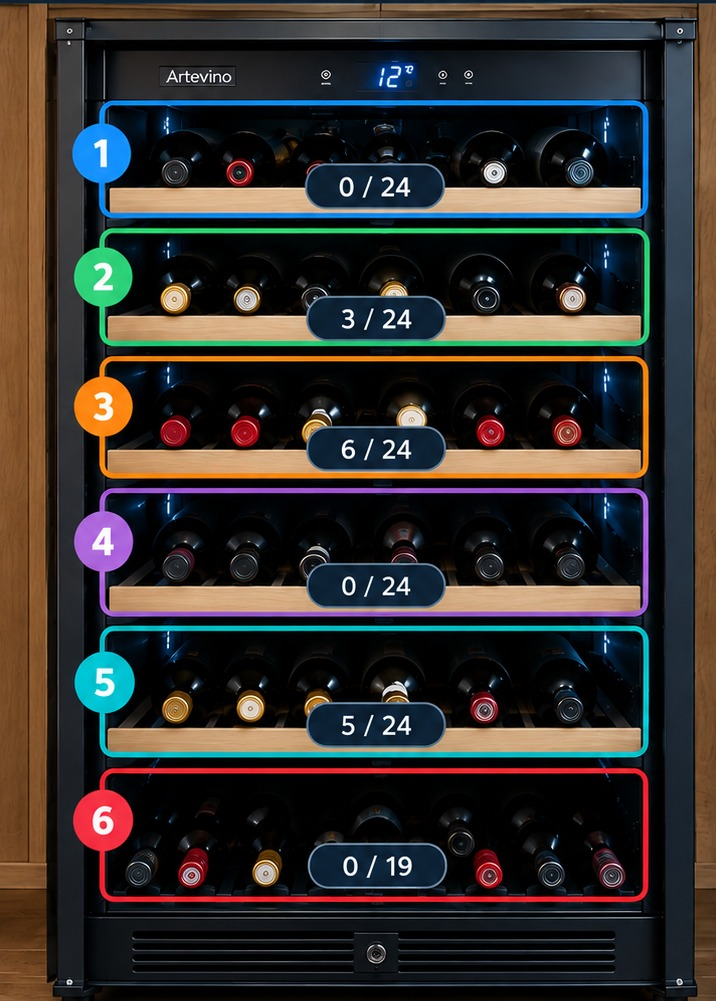
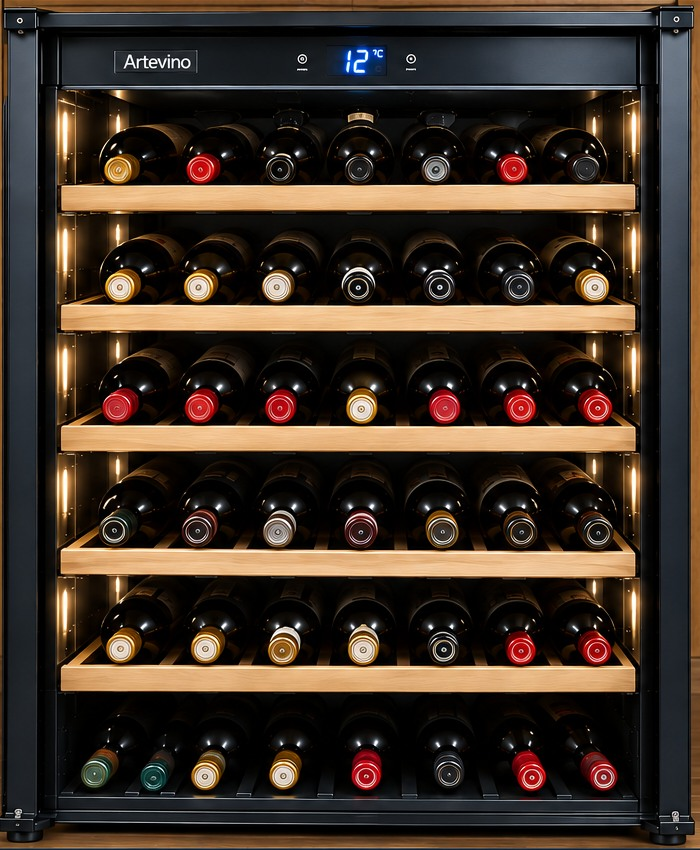
Add files via upload

diff --git a/index.html b/index.html
@@ -1,7 +1,7 @@
 <!doctype html>
 <html lang="fr"><head><meta charset="utf-8"><meta name="viewport" content="width=device-width,initial-scale=1,viewport-fit=cover"><meta name="theme-color" content="#202421"><link rel="manifest" href="manifest.json"><link rel="icon" href="icon.svg" type="image/svg+xml"><title>Ma cave à vin</title>
 <style>
-:root{font-family:system-ui,-apple-system,Segoe UI,sans-serif;color:#f7f3eb;background:#171a18;--panel:#252b27;--line:#454b45;--muted:#c7c9c3;--accent:#c9b18a}*{box-sizing:border-box}body{margin:0}header{padding:18px 16px;background:var(--panel);border-bottom:1px solid var(--line)}h1{margin:0;font-size:1.45rem}header p{margin:5px 0 0;color:var(--muted)}main{max-width:900px;margin:auto;padding:14px}.toolbar{display:flex;gap:8px;flex-wrap:wrap;margin:10px 0}.btn{border:0;border-radius:9px;padding:10px 13px;background:#d6c4a3;color:#211d16;font:inherit;font-weight:700;cursor:pointer}.secondary{background:#414a43;color:#fff}.danger{background:#713d36;color:white}.panel{background:var(--panel);border:1px solid var(--line);border-radius:13px;padding:14px;margin:12px 0}h2{font-size:1.12rem;margin:0 0 12px}.muted{color:var(--muted);font-size:.9rem}.cabinet-wrap{display:grid;grid-template-columns:minmax(180px,260px) 1fr;gap:16px;align-items:center}.cabinet{background:linear-gradient(90deg,#080a09,#303632 18%,#151816 85%,#050605);border:4px solid #555b56;border-radius:14px;padding:12px 9px;box-shadow:inset 0 0 12px #000,0 8px 22px #0007}.cabinet-title{text-align:center;font-size:.7rem;letter-spacing:.2em;color:#c9c9c2;margin-bottom:8px}.zone{display:flex;align-items:center;justify-content:center;gap:3px;position:relative;height:66px;border-bottom:5px solid #82755f;background:linear-gradient(#171b18,#252a26);cursor:pointer;padding:4px}.zone:last-child{border-bottom:0}.zone.active{outline:2px solid #e5d7bc;outline-offset:-3px;background:#363a34}.zone-label{position:absolute;top:3px;left:5px;font-size:.66rem;color:#e8e1d4;background:#171a18cc;padding:1px 4px;border-radius:4px}.bottle-shape{height:34px;width:9px;border-radius:3px 3px 2px 2px;background:linear-gradient(90deg,#263d2e,#5d7958,#1b2b22);position:relative;box-shadow:1px 1px 2px #0008}.bottle-shape:before{content:"";position:absolute;width:4px;height:8px;left:2.5px;top:-6px;background:#8d7655;border-radius:2px 2px 0 0}.zone:nth-child(3n) .bottle-shape{background:linear-gradient(90deg,#4a2020,#8d4540,#391818)}.zone:nth-child(4n) .bottle-shape{background:linear-gradient(90deg,#706342,#b8a36b,#554a2c)}.zone-list{display:grid;gap:8px}.zone-card{display:flex;align-items:center;justify-content:space-between;gap:8px;background:#1b201c;border:1px solid var(--line);border-radius:9px;padding:10px;color:#f7f3eb;text-align:left;cursor:pointer}.zone-card.active{border-color:#d6c4a3;box-shadow:0 0 0 1px #d6c4a3}.zone-card strong{display:block}.grid{display:grid;grid-template-columns:repeat(2,minmax(0,1fr));gap:10px}label{display:block;font-size:.88rem;color:#dedfd8;margin:10px 0 5px}input,select,textarea{width:100%;padding:10px;border-radius:8px;border:1px solid #656b64;background:#171a18;color:#fff;font:inherit}textarea{min-height:76px;resize:vertical}.bottle-card{padding:12px;border:1px solid var(--line);border-radius:9px;margin:9px 0;background:#1b201c}.bottle-card strong{display:block}.card-actions{display:flex;flex-wrap:wrap;gap:7px;margin-top:8px}.card-actions .btn{font-size:.87rem;padding:8px 10px}.add-choice{padding:6px 0 12px}.add-choice .grid{grid-template-columns:repeat(2,minmax(0,1fr))}.add-choice .btn{min-height:54px}.photo{max-width:150px;max-height:170px;object-fit:contain;border-radius:8px;display:inline-block;margin:8px 8px 0 0}.photo-preview-list{display:flex;flex-wrap:wrap;gap:8px}.photo-preview-list img{max-width:100px;max-height:120px;object-fit:contain;border-radius:8px;border:1px solid var(--line)}.row{display:flex;justify-content:space-between;align-items:center;gap:8px}.badge{font-size:.78rem;background:#414a43;border-radius:99px;padding:4px 8px}.hidden{display:none!important}.status{margin-top:8px;color:#d6c4a3;font-size:.9rem}.footer{font-size:.8rem;color:#aeb4ac;padding:8px 2px}@media(max-width:600px){main{padding:9px}.cabinet-wrap{grid-template-columns:1fr}.cabinet{max-width:280px;width:100%;margin:auto}.zone{height:58px}.grid{grid-template-columns:1fr}.toolbar .btn{flex:1}.panel{padding:12px}}
+:root{font-family:system-ui,-apple-system,Segoe UI,sans-serif;color:#f7f3eb;background:#171a18;--panel:#252b27;--line:#454b45;--muted:#c7c9c3;--accent:#c9b18a}*{box-sizing:border-box}body{margin:0}header{padding:18px 16px;background:var(--panel);border-bottom:1px solid var(--line)}h1{margin:0;font-size:1.45rem}header p{margin:5px 0 0;color:var(--muted)}main{max-width:900px;margin:auto;padding:14px}.toolbar{display:flex;gap:8px;flex-wrap:wrap;margin:10px 0}.btn{border:0;border-radius:9px;padding:10px 13px;background:#d6c4a3;color:#211d16;font:inherit;font-weight:700;cursor:pointer}.secondary{background:#414a43;color:#fff}.danger{background:#713d36;color:white}.panel{background:var(--panel);border:1px solid var(--line);border-radius:13px;padding:14px;margin:12px 0}h2{font-size:1.12rem;margin:0 0 12px}.muted{color:var(--muted);font-size:.9rem}.cabinet-wrap{display:grid;grid-template-columns:minmax(180px,260px) 1fr;gap:16px;align-items:center}.cabinet{background:linear-gradient(90deg,#080a09,#303632 18%,#151816 85%,#050605);border:4px solid #555b56;border-radius:14px;padding:12px 9px;box-shadow:inset 0 0 12px #000,0 8px 22px #0007}.cabinet-title{text-align:center;font-size:.7rem;letter-spacing:.2em;color:#c9c9c2;margin-bottom:8px}.zone{display:flex;align-items:center;justify-content:center;gap:3px;position:relative;height:66px;border-bottom:5px solid #82755f;background:linear-gradient(#171b18,#252a26);cursor:pointer;padding:4px}.zone:last-child{border-bottom:0}.zone.active{outline:2px solid #e5d7bc;outline-offset:-3px;background:#363a34}.zone-label{position:absolute;top:3px;left:5px;font-size:.66rem;color:#e8e1d4;background:#171a18cc;padding:1px 4px;border-radius:4px}.bottle-shape{height:34px;width:9px;border-radius:3px 3px 2px 2px;background:linear-gradient(90deg,#263d2e,#5d7958,#1b2b22);position:relative;box-shadow:1px 1px 2px #0008}.bottle-shape:before{content:"";position:absolute;width:4px;height:8px;left:2.5px;top:-6px;background:#8d7655;border-radius:2px 2px 0 0}.zone:nth-child(3n) .bottle-shape{background:linear-gradient(90deg,#4a2020,#8d4540,#391818)}.zone:nth-child(4n) .bottle-shape{background:linear-gradient(90deg,#706342,#b8a36b,#554a2c)}.zone-list{display:grid;gap:8px}.zone-card{display:flex;align-items:center;justify-content:space-between;gap:8px;background:#1b201c;border:1px solid var(--line);border-radius:9px;padding:10px;color:#f7f3eb;text-align:left;cursor:pointer}.zone-card.active{border-color:#d6c4a3;box-shadow:0 0 0 1px #d6c4a3}.zone-card strong{display:block}.grid{display:grid;grid-template-columns:repeat(2,minmax(0,1fr));gap:10px}label{display:block;font-size:.88rem;color:#dedfd8;margin:10px 0 5px}input,select,textarea{width:100%;padding:10px;border-radius:8px;border:1px solid #656b64;background:#171a18;color:#fff;font:inherit}textarea{min-height:76px;resize:vertical}.bottle-card{padding:12px;border:1px solid var(--line);border-radius:9px;margin:9px 0;background:#1b201c}.bottle-card strong{display:block}.card-actions{display:flex;flex-wrap:wrap;gap:7px;margin-top:8px}.card-actions .btn{font-size:.87rem;padding:8px 10px}.add-choice{padding:6px 0 12px}.add-choice .grid{grid-template-columns:repeat(2,minmax(0,1fr))}.add-choice .btn{min-height:54px}.photo{max-width:150px;max-height:170px;object-fit:contain;border-radius:0;display:inline-block;margin:8px 8px 0 0}.photo-preview-list{display:flex;flex-wrap:wrap;gap:8px}.photo-preview-list img{max-width:100px;max-height:120px;object-fit:contain;border-radius:0;border:1px solid var(--line)}.row{display:flex;justify-content:space-between;align-items:center;gap:8px}.badge{font-size:.78rem;background:#414a43;border-radius:99px;padding:4px 8px}.hidden{display:none!important}.status{margin-top:8px;color:#d6c4a3;font-size:.9rem}.footer{font-size:.8rem;color:#aeb4ac;padding:8px 2px}@media(max-width:600px){main{padding:9px}.cabinet-wrap{grid-template-columns:1fr}.cabinet{max-width:280px;width:100%;margin:auto}.zone{height:58px}.grid{grid-template-columns:1fr}.toolbar .btn{flex:1}.panel{padding:12px}}
 
 /* Correctif interface : photo réelle, zones tactiles sans cadres colorés */
 .cabinet-wrap{display:block}
@@ -13,14 +13,14 @@
 .hotspot{display:flex;align-items:center;justify-content:center;padding:0;color:#fff;text-align:center}
 .hotspot-count{display:inline-block;background:rgba(20,22,20,.86);color:#fff;border:1px solid rgba(238,225,202,.75);border-radius:7px;padding:3px 9px;font-size:clamp(.72rem,2.5vw,.9rem);font-weight:700;line-height:1.2;box-shadow:0 1px 5px #0008;pointer-events:none}
 
-.hotspot[data-zone="1"]{top:17%}.hotspot[data-zone="2"]{top:33%}.hotspot[data-zone="3"]{top:49%}.hotspot[data-zone="4"]{top:65%}.hotspot[data-zone="5"]{top:81%}.hotspot[data-zone="6"]{top:91%}
+.hotspot[data-zone="1"]{top:20%}.hotspot[data-zone="2"]{top:34%}.hotspot[data-zone="3"]{top:48%}.hotspot[data-zone="4"]{top:62%}.hotspot[data-zone="5"]{top:76%}.hotspot[data-zone="6"]{top:89%}
 #zoneList{display:none!important}
 #inventoryPanel,#formPanel,#capacityPanel,#backupPanel{display:none}
 #inventoryPanel.open,#formPanel.open,#capacityPanel.open,#backupPanel.open{display:block}
 #cavePanel.hidden{display:none}
 .detail-toolbar{display:flex;gap:8px;flex-wrap:wrap;margin:10px 0}
 header{position:sticky;top:0;z-index:5}
-@media(max-width:600px){.cave-photo-wrap{width:100%;max-width:390px}.hotspot{left:12%;width:80%;height:13%}.hotspot[data-zone="1"]{top:17%}.hotspot[data-zone="2"]{top:33%}.hotspot[data-zone="3"]{top:49%}.hotspot[data-zone="4"]{top:65%}.hotspot[data-zone="5"]{top:81%}.hotspot[data-zone="6"]{top:91%}}
+@media(max-width:600px){.cave-photo-wrap{width:100%;max-width:390px}.hotspot{left:12%;width:80%;height:11%}.hotspot[data-zone="1"]{top:20%}.hotspot[data-zone="2"]{top:34%}.hotspot[data-zone="3"]{top:48%}.hotspot[data-zone="4"]{top:62%}.hotspot[data-zone="5"]{top:76%}.hotspot[data-zone="6"]{top:89%}}
 </style></head><body>
 <header><h1>🍷 Ma cave à vin</h1><p>Ton inventaire, compartiment par compartiment</p></header><main>
 <section class="panel" id="cavePanel"><div class="row"><h2>Ma cave</h2></div><p class="muted" id="totalCapacity" style="margin:0 0 10px;text-align:center">Bouteilles : 0 / Capacité 120</p>
@@ -36,11 +36,11 @@ header{position:sticky;top:0;z-index:5}
 <p class="muted" style="text-align:center">Appuie sur une clayette pour ouvrir son compartiment. Le compartiment 6 se trouve au fond, sous la dernière clayette.</p>
 <div class="toolbar"><button class="btn secondary" id="capacityBtn">Capacité</button><button class="btn" id="waitingBtn">🍷 Bouteilles en attente <span id="waitingCount"></span></button><button class="btn secondary" id="backupBtn">Sauvegarde et restauration</button></div></section>
 <section class="panel" id="inventoryPanel"><div class="row"><h2 id="sectionTitle">Compartiment 1</h2><span class="muted" id="sectionCount"></span></div><div class="detail-toolbar"><button class="btn secondary" id="backToCave">← Retour à ma cave</button><button class="btn" id="addWineBtn">＋ Ajouter un vin</button></div><div id="inventory"></div></section>
-<section class="panel" id="formPanel"><h2 id="formTitle">Ajouter un vin</h2><div id="addChoice" class="add-choice"><p class="muted">Comment souhaites-tu ajouter ce vin ?</p><div class="grid"><button class="btn" type="button" id="takePhotoBtn">📷 Prendre une photo</button><button class="btn secondary" type="button" id="manualAddBtn">✍ Ajouter manuellement</button></div><input id="quickPhoto" class="hidden" type="file" accept="image/*" capture="environment"></div><p class="muted" id="formHint">Les champs avec * sont obligatoires. Les bouteilles en attente n'ont aucune limite de capacité.</p><form id="wineForm" class="hidden"><input type="hidden" id="editId"><div class="grid"><div><label for="name">Nom du vin *</label><input id="name" required maxlength="160"></div><div><label for="producer">Domaine / producteur</label><input id="producer"></div><div><label for="appellation">Appellation</label><input id="appellation"></div><div><label for="year">Millésime</label><input id="year" type="number" min="1900" max="2100" inputmode="numeric"></div><div><label for="color">Couleur</label><select id="color"><option>Rouge</option><option>Blanc</option><option>Rosé</option><option>Effervescent</option><option>Autre</option></select></div><div><label for="grapes">Cépages</label><input id="grapes" placeholder="Ex. Merlot, Cabernet Sauvignon"></div><div><label for="qty">Quantité *</label><input id="qty" type="number" min="1" value="1" required></div><div><label for="price">Prix par bouteille (€)</label><input id="price" type="number" min="0" step="0.01"></div><div><label for="drinkFrom">À boire à partir de</label><input id="drinkFrom" type="date"></div><div><label for="drink">À boire idéalement jusqu'au</label><input id="drink" type="date"></div><div><label for="temp">Température de dégustation (°C)</label><input id="temp" type="number" min="0" max="30" step="0.5"></div><div><label for="photo">Photos de la bouteille (face avant, contre-étiquette au dos, capsule…)</label><input id="photo" type="file" accept="image/*" multiple><p class="muted">Tu peux sélectionner plusieurs photos ou en ajouter d’autres lors de la modification. Pour lire les informations, photographie aussi la contre-étiquette.</p><div class="toolbar"><button class="btn secondary" type="button" id="addCameraPhoto">📷 Ajouter une photo (dos, capsule…)</button><button class="btn secondary" type="button" id="scanPhotos">🔎 Lire les informations des photos</button></div><input type="file" accept="image/*" capture="environment" id="extraCameraPhoto" class="hidden"><div id="ocrStatus" class="status" aria-live="polite"></div><div id="photoPreviewList" class="photo-preview-list"></div></div></div><label for="description">Description du vin</label><textarea id="description" placeholder="Cépages, terroir, arômes, élevage, conseils du producteur…"></textarea><label for="pairings">Accords mets et vins</label><textarea id="pairings" placeholder="Ex. agneau rôti, fromages affinés…"></textarea><label for="notes">Notes personnelles</label><textarea id="notes" placeholder="Où acheté, occasion, avis de dégustation…"></textarea><div class="toolbar"><button class="btn" type="submit" id="submitWine">Enregistrer le vin</button><button class="btn secondary hidden" type="button" id="cancelEdit">Annuler</button></div><div class="status" id="formStatus" aria-live="polite"></div></form></section>
+<section class="panel" id="formPanel"><h2 id="formTitle">Ajouter un vin</h2><div id="addChoice" class="add-choice"><p class="muted">Comment souhaites-tu ajouter ce vin ?</p><div class="grid"><button class="btn" type="button" id="takePhotoBtn">📷 Prendre une photo</button><button class="btn secondary" type="button" id="manualAddBtn">✍ Ajouter manuellement</button></div><input id="quickPhoto" class="hidden" type="file" accept="image/*" capture="environment"></div><p class="muted" id="formHint">Les champs avec * sont obligatoires. Les bouteilles en attente n'ont aucune limite de capacité.</p><form id="wineForm" class="hidden"><input type="hidden" id="editId"><div class="grid"><div><label for="name">Nom du vin *</label><input id="name" required maxlength="160"></div><div><label for="producer">Domaine / producteur</label><input id="producer"></div><div><label for="appellation">Appellation</label><input id="appellation"></div><div><label for="year">Millésime</label><input id="year" type="number" min="1900" max="2100" inputmode="numeric"></div><div><label for="color">Couleur</label><select id="color"><option>Rouge</option><option>Blanc</option><option>Rosé</option><option>Effervescent</option><option>Autre</option></select></div><div><label for="grapes">Cépages</label><input id="grapes" placeholder="Ex. Merlot, Cabernet Sauvignon"></div><div><label for="qty">Quantité *</label><input id="qty" type="number" min="1" value="1" required></div><div><label for="price">Prix par bouteille (€)</label><input id="price" type="number" min="0" step="0.01"></div><div><label for="alcohol">Degré d’alcool (% vol.)</label><input id="alcohol" type="number" min="0" max="30" step="0.1" inputmode="decimal" placeholder="Ex. 13,5"></div><div><label for="drinkFrom">À boire à partir de</label><input id="drinkFrom" type="date"></div><div><label for="temp">Température de dégustation (°C)</label><input id="temp" type="number" min="0" max="30" step="0.5"></div><div><label for="photo">Photos de la bouteille (face avant, contre-étiquette au dos, capsule…)</label><input id="photo" type="file" accept="image/*" multiple><p class="muted">Tu peux sélectionner plusieurs photos ou en ajouter d’autres lors de la modification. Pour lire les informations, photographie aussi la contre-étiquette.</p><div class="toolbar"><button class="btn secondary" type="button" id="addCameraPhoto">📷 Ajouter une photo (dos, capsule…)</button><button class="btn secondary" type="button" id="scanPhotos">🔎 Lire les informations des photos</button></div><input type="file" accept="image/*" capture="environment" id="extraCameraPhoto" class="hidden"><div id="ocrStatus" class="status" aria-live="polite"></div><div id="photoPreviewList" class="photo-preview-list"></div></div></div><label for="description">Description du vin</label><textarea id="description" placeholder="Cépages, terroir, arômes, élevage, conseils du producteur…"></textarea><label for="pairings">Accords mets et vins</label><textarea id="pairings" placeholder="Ex. agneau rôti, fromages affinés…"></textarea><label for="notes">Notes personnelles</label><textarea id="notes" placeholder="Où acheté, occasion, avis de dégustation…"></textarea><div class="toolbar"><button class="btn" type="submit" id="submitWine">Enregistrer le vin</button><button class="btn secondary hidden" type="button" id="cancelEdit">Annuler</button></div><div class="status" id="formStatus" aria-live="polite"></div></form></section>
 <section class="panel hidden" id="capacityPanel"><h2>Capacité des compartiments</h2><p class="muted">Chaque compartiment physique possède une capacité fixe que tu peux ajuster ici. Les bouteilles en attente sont illimitées.</p><div class="grid" id="capacityFields"></div><button class="btn" id="saveCapacities">Enregistrer les capacités</button><button class="btn secondary" id="closeCapacity">Fermer</button></section>
-<section class="panel" id="backupPanel"><div class="row"><h2>Sauvegarde et restauration</h2><button class="btn secondary" id="closeBackup">Fermer</button></div><p class="muted">Les données et photos restent dans le stockage de ce navigateur. Exporte régulièrement une sauvegarde JSON, notamment avant de changer d'appareil. Évite d'effacer les données du navigateur.</p><div class="toolbar"><button class="btn secondary" id="export">Exporter ma cave</button><label class="btn secondary" for="importFile" style="display:inline-block;margin:0;cursor:pointer">Importer une sauvegarde</label><input class="hidden" id="importFile" type="file" accept="application/json"></div><div id="backupStatus" class="status"></div></section><p class="footer">Version 1.1.2 — Cinq clayettes et rangement au fond — Six compartiments — Plusieurs photos par vin — Les données sont locales à ce navigateur et ne sont pas synchronisées entre appareils.</p></main>
+<section class="panel" id="backupPanel"><div class="row"><h2>Sauvegarde et restauration</h2><button class="btn secondary" id="closeBackup">Fermer</button></div><p class="muted">Les données et photos restent dans le stockage de ce navigateur. Exporte régulièrement une sauvegarde JSON, notamment avant de changer d'appareil. Évite d'effacer les données du navigateur.</p><div class="toolbar"><button class="btn secondary" id="export">Exporter ma cave</button><label class="btn secondary" for="importFile" style="display:inline-block;margin:0;cursor:pointer">Importer une sauvegarde</label><input class="hidden" id="importFile" type="file" accept="application/json"></div><div id="backupStatus" class="status"></div></section><p class="footer">Version 1.1.5 — Cinq clayettes et rangement au fond — Six compartiments — Plusieurs photos par vin — Les données sont locales à ce navigateur et ne sont pas synchronisées entre appareils.</p></main>
 <script>
-const KEY='maCaveVin_v1';const $=id=>document.getElementById(id);const defaultState={selected:1,view:'home',formOpen:false,capacities:{1:24,2:24,3:24,4:24,5:24,6:24},wines:[]};let state;try{state=JSON.parse(localStorage.getItem(KEY)||'null')||defaultState}catch{state=defaultState}state.view='home';state.formOpen=false;state.capacities={...{1:24,2:24,3:24,4:24,5:24,6:24},...(state.capacities||{})};state.wines=(state.wines||[]).map(w=>({...w,compartment:w.compartment===0||w.compartment==='waiting'?'waiting':Number(w.compartment||1),description:w.description||'',grapes:w.grapes||'',pairings:w.pairings||'',drinkFrom:w.drinkFrom||''}));let currentPhotos=[];function save(){localStorage.setItem(KEY,JSON.stringify(state))}function countAt(c){return state.wines.filter(w=>w.compartment===c).reduce((s,w)=>s+Number(w.qty||0),0)}function waitingCount(){return countAt('waiting')}function esc(s=''){return String(s).replace(/[&<>"']/g,c=>({'&':'&amp;','<':'&lt;','>':'&gt;','"':'&quot;',"'":'&#39;'}[c]))}function priceText(w){return w.price!==''&&w.price!=null?Number(w.price).toLocaleString('fr-FR',{style:'currency',currency:'EUR'}):''}
+const KEY='maCaveVin_v1';const $=id=>document.getElementById(id);const defaultState={selected:1,view:'home',formOpen:false,capacities:{1:24,2:24,3:24,4:24,5:24,6:24},wines:[]};let state;try{state=JSON.parse(localStorage.getItem(KEY)||'null')||defaultState}catch{state=defaultState}state.view='home';state.formOpen=false;state.capacities={...{1:24,2:24,3:24,4:24,5:24,6:24},...(state.capacities||{})};state.wines=(state.wines||[]).map(w=>({...w,compartment:w.compartment===0||w.compartment==='waiting'?'waiting':Number(w.compartment||1),description:w.description||'',grapes:w.grapes||'',pairings:w.pairings||'',drinkFrom:w.drinkFrom||'',alcohol:w.alcohol??''}));let currentPhotos=[];function save(){localStorage.setItem(KEY,JSON.stringify(state))}function countAt(c){return state.wines.filter(w=>w.compartment===c).reduce((s,w)=>s+Number(w.qty||0),0)}function waitingCount(){return countAt('waiting')}function esc(s=''){return String(s).replace(/[&<>"']/g,c=>({'&':'&amp;','<':'&lt;','>':'&gt;','"':'&quot;',"'":'&#39;'}[c]))}function priceText(w){return w.price!==''&&w.price!=null?Number(w.price).toLocaleString('fr-FR',{style:'currency',currency:'EUR'}):''}
 function selectComp(n){state.selected=n;state.view='compartment';save();resetForm();render();$('inventoryPanel').scrollIntoView({behavior:'smooth',block:'start'})}function showWaiting(){state.view='waiting';save();resetForm();render();$('inventoryPanel').scrollIntoView({behavior:'smooth',block:'start'})}
 function renderCabinet(){
   [1,2,3,4,5,6].forEach(n=>{const b=document.querySelector(`.hotspot[data-zone="${n}"]`);if(b){b.setAttribute('aria-label',`Ouvrir le compartiment ${n}, ${countAt(n)} / ${state.capacities[n]||24} bouteilles`);const label=b.querySelector('.hotspot-count');if(label)label.textContent=`${countAt(n)} / ${state.capacities[n]||24}`;}});
@@ -50,7 +50,7 @@ function renderCabinet(){
   $('totalCapacity').textContent=`Bouteilles : ${storedBottles} / Capacité ${totalCapacity}`;
   document.querySelectorAll('[data-zone]').forEach(b=>b.onclick=()=>selectComp(Number(b.dataset.zone)));
 }
-function renderInventory(){let isWait=state.view==='waiting';$('sectionTitle').textContent=isWait?'Bouteilles en attente':`Compartiment ${state.selected}`;$('sectionCount').textContent=isWait?`${waitingCount()} bouteille(s) · capacité illimitée`:`${countAt(state.selected)} / ${state.capacities[state.selected]||24} bouteille(s)`;let wines=state.wines.filter(w=>isWait?w.compartment==='waiting':w.compartment===state.selected);$('inventory').innerHTML=wines.length?wines.map(w=>`<article class="bottle-card"><div class="row"><strong>${esc(w.name)} ${w.year?`(${esc(w.year)})`:''}</strong><span class="badge">${Number(w.qty)} ×</span></div><div class="muted">${esc([w.producer,w.appellation,w.color,w.grapes].filter(Boolean).join(' · '))}</div><div class="muted">${[priceText(w),w.drinkFrom?'À boire dès '+esc(w.drinkFrom):'',w.drink?'Jusqu’au '+esc(w.drink):'',w.temp?`Service ${esc(w.temp)} °C`:'' ].filter(Boolean).join(' · ')}</div>${w.description?`<p><strong>Description</strong><br>${esc(w.description).replace(/\n/g,'<br>')}</p>`:''}${w.pairings?`<p><strong>Accords mets et vins</strong><br>${esc(w.pairings).replace(/\n/g,'<br>')}</p>`:''}${w.notes?`<p><strong>Notes</strong><br>${esc(w.notes).replace(/\n/g,'<br>')}</p>`:''}${(w.photos&&w.photos.length?w.photos:(w.photo?[w.photo]:[])).map((ph,i)=>`<img class="photo" src="${ph}" alt="Photo ${i+1} de ${esc(w.name)}">`).join('')}<div class="card-actions"><button class="btn secondary" data-edit="${esc(w.id)}">Modifier</button><button class="btn secondary" data-move="${esc(w.id)}">Transférer</button><button class="btn secondary" data-qty="${esc(w.id)}">Ajuster quantité</button><button class="btn danger" data-delete="${esc(w.id)}">Supprimer</button></div></article>`).join(''):'<p class="muted">'+(isWait?'Aucune bouteille en attente. Tu peux ajouter ici les vins qui ne sont pas encore rangés dans la cave.':'Aucune bouteille dans ce compartiment pour le moment.')+'</p>';document.querySelectorAll('[data-edit]').forEach(b=>b.onclick=()=>editWine(b.dataset.edit));document.querySelectorAll('[data-move]').forEach(b=>b.onclick=()=>moveWine(b.dataset.move));document.querySelectorAll('[data-qty]').forEach(b=>b.onclick=()=>adjustQty(b.dataset.qty));document.querySelectorAll('[data-delete]').forEach(b=>b.onclick=()=>deleteWine(b.dataset.delete));}
+function renderInventory(){let isWait=state.view==='waiting';$('sectionTitle').textContent=isWait?'Bouteilles en attente':`Compartiment ${state.selected}`;$('sectionCount').textContent=isWait?`${waitingCount()} bouteille(s) · capacité illimitée`:`${countAt(state.selected)} / ${state.capacities[state.selected]||24} bouteille(s)`;let wines=state.wines.filter(w=>isWait?w.compartment==='waiting':w.compartment===state.selected);$('inventory').innerHTML=wines.length?wines.map(w=>`<article class="bottle-card"><div class="row"><strong>${esc(w.name)} ${w.year?`(${esc(w.year)})`:''}</strong><span class="badge">${Number(w.qty)} ×</span></div><div class="muted">${esc([w.producer,w.appellation,w.color,w.grapes].filter(Boolean).join(' · '))}</div><div class="muted">${[priceText(w),w.drinkFrom?'À boire dès '+esc(w.drinkFrom):'',w.temp?`Service ${esc(w.temp)} °C`:'',w.alcohol!==''&&w.alcohol!=null?`Alcool ${esc(w.alcohol)} % vol.`:'' ].filter(Boolean).join(' · ')}</div>${w.description?`<p><strong>Description</strong><br>${esc(w.description).replace(/\n/g,'<br>')}</p>`:''}${w.pairings?`<p><strong>Accords mets et vins</strong><br>${esc(w.pairings).replace(/\n/g,'<br>')}</p>`:''}${w.notes?`<p><strong>Notes</strong><br>${esc(w.notes).replace(/\n/g,'<br>')}</p>`:''}${(w.photos&&w.photos.length?w.photos:(w.photo?[w.photo]:[])).map((ph,i)=>`<img class="photo" src="${ph}" alt="Photo ${i+1} de ${esc(w.name)}">`).join('')}<div class="card-actions"><button class="btn secondary" data-edit="${esc(w.id)}">Modifier</button><button class="btn secondary" data-move="${esc(w.id)}">Transférer</button><button class="btn secondary" data-qty="${esc(w.id)}">Ajuster quantité</button><button class="btn danger" data-delete="${esc(w.id)}">Supprimer</button></div></article>`).join(''):'<p class="muted">'+(isWait?'Aucune bouteille en attente. Tu peux ajouter ici les vins qui ne sont pas encore rangés dans la cave.':'Aucune bouteille dans ce compartiment pour le moment.')+'</p>';document.querySelectorAll('[data-edit]').forEach(b=>b.onclick=()=>editWine(b.dataset.edit));document.querySelectorAll('[data-move]').forEach(b=>b.onclick=()=>moveWine(b.dataset.move));document.querySelectorAll('[data-qty]').forEach(b=>b.onclick=()=>adjustQty(b.dataset.qty));document.querySelectorAll('[data-delete]').forEach(b=>b.onclick=()=>deleteWine(b.dataset.delete));}
 function render(){
  renderCabinet();renderInventory();
  const home=state.view==='home';
@@ -72,14 +72,14 @@ $('photo').addEventListener('change',async()=>{const files=Array.from($('photo')
 let ocrLoader;
 function loadOcr(){if(window.Tesseract)return Promise.resolve();if(!ocrLoader)ocrLoader=new Promise((resolve,reject)=>{const sc=document.createElement('script');sc.src='https://cdn.jsdelivr.net/npm/tesseract.js@5.1.1/dist/tesseract.min.js';sc.onload=resolve;sc.onerror=()=>reject(new Error('Connexion Internet nécessaire pour télécharger le lecteur OCR.'));document.head.appendChild(sc)});return ocrLoader}
 function fillIfEmpty(id,value){if(value&&!$(id).value.trim())$(id).value=value.trim()}
-function parseWineText(raw){const lines=raw.split(/\n/).map(x=>x.trim()).filter(Boolean);const t=lines.join('\n');const year=t.match(/\b(19[5-9]\d|20[0-3]\d)\b/);if(year)fillIfEmpty('year',year[1]);const grapes=['Merlot','Cabernet Sauvignon','Cabernet Franc','Pinot Noir','Syrah','Grenache','Mourvèdre','Malbec','Chardonnay','Sauvignon Blanc','Sémillon','Chenin','Viognier','Riesling','Gewurztraminer','Gamay','Carignan','Cinsault','Petit Verdot','Marsanne','Roussanne','Muscat'];const found=grapes.filter(g=>new RegExp(g.replace(/ /g,'\\s+'),'i').test(t));if(found.length)fillIfEmpty('grapes',found.join(', '));const appell=t.match(/(?:appellation\s+)([^\n]{3,75}?)(?:\s+contr[oô]l[eé]e|\s+prot[eé]g[eé]e|\s+A\.?O\.?P\.?|\s+A\.?O\.?C\.?|$)/im);if(appell)fillIfEmpty('appellation',appell[1]);const domain=t.match(/(?:domaine|ch[aâ]teau|maison|clos)\s+[^\n]{2,65}/i);if(domain)fillIfEmpty('producer',domain[0]);const title=lines.find(l=>l.length>3&&l.length<65&&!/^(mis en|contient|produit|bouteille|vin de|appellation|alc\.|volume|75\s*cl|www\.|import|sulfites|france|terroir|cépages)/i.test(l)&&!/\d{2,}/.test(l));if(title)fillIfEmpty('name',title);const old=$('description').value.trim();const block='Texte lu sur les étiquettes (à vérifier) :\n'+t.slice(0,2400);$('description').value=old?old+'\n\n'+block:block;}
+function parseWineText(raw){const lines=raw.split(/\n/).map(x=>x.trim()).filter(Boolean);const t=lines.join('\n');const abv=t.match(/(?:\b(?:alc(?:ool)?\.?|vol\.?|alcool\s+par\s+volume)\s*[:.]?\s*)(\d{1,2}(?:[.,]\d)?)\s*%|\b(\d{1,2}(?:[.,]\d)?)\s*%\s*(?:vol\.?|alc\.?)/i);if(abv){const degree=Number((abv[1]||abv[2]).replace(',','.'));if(degree>=0&&degree<=30)fillIfEmpty('alcohol',String(degree));}const year=t.match(/\b(19[5-9]\d|20[0-3]\d)\b/);if(year)fillIfEmpty('year',year[1]);const grapes=['Merlot','Cabernet Sauvignon','Cabernet Franc','Pinot Noir','Syrah','Grenache','Mourvèdre','Malbec','Chardonnay','Sauvignon Blanc','Sémillon','Chenin','Viognier','Riesling','Gewurztraminer','Gamay','Carignan','Cinsault','Petit Verdot','Marsanne','Roussanne','Muscat'];const found=grapes.filter(g=>new RegExp(g.replace(/ /g,'\\s+'),'i').test(t));if(found.length)fillIfEmpty('grapes',found.join(', '));const appell=t.match(/(?:appellation\s+)([^\n]{3,75}?)(?:\s+contr[oô]l[eé]e|\s+prot[eé]g[eé]e|\s+A\.?O\.?P\.?|\s+A\.?O\.?C\.?|$)/im);if(appell)fillIfEmpty('appellation',appell[1]);const domain=t.match(/(?:domaine|ch[aâ]teau|maison|clos)\s+[^\n]{2,65}/i);if(domain)fillIfEmpty('producer',domain[0]);const title=lines.find(l=>l.length>3&&l.length<65&&!/^(mis en|contient|produit|bouteille|vin de|appellation|alc\.|volume|75\s*cl|www\.|import|sulfites|france|terroir|cépages)/i.test(l)&&!/\d{2,}/.test(l));if(title)fillIfEmpty('name',title);const old=$('description').value.trim();const block='Texte lu sur les étiquettes (à vérifier) :\n'+t.slice(0,2400);$('description').value=old?old+'\n\n'+block:block;}
 $('addCameraPhoto').onclick=()=>$('extraCameraPhoto').click();
 $('extraCameraPhoto').onchange=async e=>{const f=e.target.files&&e.target.files[0];if(!f)return;try{if(currentPhotos.length>=5)throw Error('Maximum 5 photos par fiche.');currentPhotos.push(await readPhoto(f));renderPhotoPreviews();$('formStatus').textContent=`${currentPhotos.length} photo(s) ajoutée(s). Tu peux prendre la photo du dos et lancer la lecture.`}catch(err){alert(err.message)}finally{e.target.value=''}};
 $('scanPhotos').onclick=async()=>{if(!currentPhotos.length){$('ocrStatus').textContent='Ajoute une photo avant de lancer la lecture.';return}const btn=$('scanPhotos');btn.disabled=true;try{$('ocrStatus').textContent='Chargement de la reconnaissance de texte (Internet nécessaire la première fois)…';await loadOcr();const worker=await Tesseract.createWorker('fra+eng');let texts=[];try{for(let i=0;i<currentPhotos.length;i++){$('ocrStatus').textContent=`Lecture de la photo ${i+1} sur ${currentPhotos.length}…`;const result=await worker.recognize(currentPhotos[i]);texts.push(result.data.text||'')}}finally{await worker.terminate()}const raw=texts.join('\n');if(!raw.trim())throw Error('Aucun texte lisible. Essaie une photo plus nette, bien éclairée.');parseWineText(raw);$('ocrStatus').textContent='Texte reconnu. Vérifie et complète les champs avant d’enregistrer : la reconnaissance peut faire des erreurs.'}catch(err){$('ocrStatus').textContent='Lecture impossible : '+err.message}finally{btn.disabled=false}};
-$('wineForm').onsubmit=e=>{e.preventDefault();const id=$('editId').value||((crypto.randomUUID&&crypto.randomUUID())||String(Date.now()));const old=state.wines.find(w=>w.id===id);const qty=Number($('qty').value);let target=old?old.compartment:(state.view==='waiting'?'waiting':state.selected);if(target!=='waiting'){let already=old&&old.compartment===target?countAt(target)-Number(old.qty):countAt(target);if(already+qty>(state.capacities[target]||24)){alert(`Capacité dépassée : il reste ${Math.max(0,(state.capacities[target]||24)-already)} place(s) dans le compartiment ${target}. Tu peux enregistrer ce vin en attente puis le transférer plus tard.`);return}}const w={id,compartment:target,name:$('name').value.trim(),producer:$('producer').value.trim(),appellation:$('appellation').value.trim(),year:$('year').value,color:$('color').value,grapes:$('grapes').value.trim(),qty,price:$('price').value,drinkFrom:$('drinkFrom').value,drink:$('drink').value,temp:$('temp').value,description:$('description').value.trim(),pairings:$('pairings').value.trim(),notes:$('notes').value.trim(),photos:currentPhotos.slice(),photo:currentPhotos[0]||(old?.photo||'')};if(old)state.wines=state.wines.filter(x=>x.id!==id);state.wines.push(w);save();resetForm();render();$('formStatus').textContent='Vin enregistré.'};
-function editWine(id){const w=state.wines.find(x=>x.id===id);if(!w)return;if(w.compartment==='waiting')state.view='waiting';else{state.view='compartment';state.selected=w.compartment}['name','producer','appellation','year','color','grapes','qty','price','drinkFrom','drink','temp','description','pairings','notes'].forEach(k=>$(k).value=w[k]??'');$('editId').value=id;state.formOpen=true;$('wineForm').dataset.started='yes';currentPhotos=(w.photos&&w.photos.length?w.photos:(w.photo?[w.photo]:[])).slice();$('photo').value='';renderPhotoPreviews();$('cancelEdit').classList.remove('hidden');$('submitWine').textContent='Enregistrer les modifications';render();renderFormTitle();$('formPanel').scrollIntoView({behavior:'smooth'})}function moveWine(id){const w=state.wines.find(x=>x.id===id);if(!w)return;let options=w.compartment==='waiting'?'1, 2, 3, 4, 5, 6':'attente, 1, 2, 3, 4, 5, 6';let answer=prompt('Transférer vers : tape « attente » ou un numéro de compartiment (1 à 6).\nDestinations : '+options,w.compartment==='waiting'?'1':'attente');if(answer===null)return;let target=answer.trim().toLowerCase()==='attente'||answer.trim().toLowerCase()==='en attente'?'waiting':Number(answer);if(target!=='waiting'&&![1,2,3,4,5,6].includes(target)){alert('Destination invalide.');return}if(target===w.compartment){return}if(target!=='waiting'&&countAt(target)+Number(w.qty)>(state.capacities[target]||24)){let available=(state.capacities[target]||24)-countAt(target);let part=prompt(`Il ne reste que ${Math.max(0,available)} place(s) dans le compartiment ${target}. Combien de bouteilles veux-tu transférer ?`,String(Math.max(0,available)));if(part===null)return;part=Number(part);if(!Number.isInteger(part)||part<1||part>w.qty||part>available){alert('Quantité invalide pour la capacité disponible.');return}w.qty-=part;state.wines.push({...w,id:(crypto.randomUUID&&crypto.randomUUID())||String(Date.now()),compartment:target,qty:part});}else{w.compartment=target}state.view=target==='waiting'?'waiting':'compartment';if(target!=='waiting')state.selected=target;save();render()}
+$('wineForm').onsubmit=e=>{e.preventDefault();const id=$('editId').value||((crypto.randomUUID&&crypto.randomUUID())||String(Date.now()));const old=state.wines.find(w=>w.id===id);const qty=Number($('qty').value);let target=old?old.compartment:(state.view==='waiting'?'waiting':state.selected);if(target!=='waiting'){let already=old&&old.compartment===target?countAt(target)-Number(old.qty):countAt(target);if(already+qty>(state.capacities[target]||24)){alert(`Capacité dépassée : il reste ${Math.max(0,(state.capacities[target]||24)-already)} place(s) dans le compartiment ${target}. Tu peux enregistrer ce vin en attente puis le transférer plus tard.`);return}}const w={id,compartment:target,name:$('name').value.trim(),producer:$('producer').value.trim(),appellation:$('appellation').value.trim(),year:$('year').value,color:$('color').value,grapes:$('grapes').value.trim(),qty,price:$('price').value,drinkFrom:$('drinkFrom').value,temp:$('temp').value,alcohol:$('alcohol').value,description:$('description').value.trim(),pairings:$('pairings').value.trim(),notes:$('notes').value.trim(),photos:currentPhotos.slice(),photo:currentPhotos[0]||(old?.photo||'')};if(old)state.wines=state.wines.filter(x=>x.id!==id);state.wines.push(w);save();resetForm();render();$('formStatus').textContent='Vin enregistré.'};
+function editWine(id){const w=state.wines.find(x=>x.id===id);if(!w)return;if(w.compartment==='waiting')state.view='waiting';else{state.view='compartment';state.selected=w.compartment}['name','producer','appellation','year','color','grapes','qty','price','drinkFrom','temp','alcohol','description','pairings','notes'].forEach(k=>$(k).value=w[k]??'');$('editId').value=id;state.formOpen=true;$('wineForm').dataset.started='yes';currentPhotos=(w.photos&&w.photos.length?w.photos:(w.photo?[w.photo]:[])).slice();$('photo').value='';renderPhotoPreviews();$('cancelEdit').classList.remove('hidden');$('submitWine').textContent='Enregistrer les modifications';render();renderFormTitle();$('formPanel').scrollIntoView({behavior:'smooth'})}function moveWine(id){const w=state.wines.find(x=>x.id===id);if(!w)return;let options=w.compartment==='waiting'?'1, 2, 3, 4, 5, 6':'attente, 1, 2, 3, 4, 5, 6';let answer=prompt('Transférer vers : tape « attente » ou un numéro de compartiment (1 à 6).\nDestinations : '+options,w.compartment==='waiting'?'1':'attente');if(answer===null)return;let target=answer.trim().toLowerCase()==='attente'||answer.trim().toLowerCase()==='en attente'?'waiting':Number(answer);if(target!=='waiting'&&![1,2,3,4,5,6].includes(target)){alert('Destination invalide.');return}if(target===w.compartment){return}if(target!=='waiting'&&countAt(target)+Number(w.qty)>(state.capacities[target]||24)){let available=(state.capacities[target]||24)-countAt(target);let part=prompt(`Il ne reste que ${Math.max(0,available)} place(s) dans le compartiment ${target}. Combien de bouteilles veux-tu transférer ?`,String(Math.max(0,available)));if(part===null)return;part=Number(part);if(!Number.isInteger(part)||part<1||part>w.qty||part>available){alert('Quantité invalide pour la capacité disponible.');return}w.qty-=part;state.wines.push({...w,id:(crypto.randomUUID&&crypto.randomUUID())||String(Date.now()),compartment:target,qty:part});}else{w.compartment=target}state.view=target==='waiting'?'waiting':'compartment';if(target!=='waiting')state.selected=target;save();render()}
 function adjustQty(id){const w=state.wines.find(x=>x.id===id);if(!w)return;const val=prompt('Nouvelle quantité de bouteilles :',String(w.qty));if(val===null)return;const n=Number(val);if(!Number.isInteger(n)||n<1){alert('La quantité doit être un entier supérieur ou égal à 1.');return}if(w.compartment!=='waiting'&&countAt(w.compartment)-Number(w.qty)+n>(state.capacities[w.compartment]||24)){alert('Cette quantité dépasserait la capacité du compartiment.');return}w.qty=n;save();render()}function deleteWine(id){const w=state.wines.find(x=>x.id===id);if(w&&confirm(`Supprimer définitivement « ${w.name} » de l'inventaire ?`)){state.wines=state.wines.filter(x=>x.id!==id);save();render()}}
-$('cancelEdit').onclick=()=>{resetForm();render()};$('waitingBtn').onclick=showWaiting;$('capacityBtn').onclick=()=>{state.view='capacity';state.formOpen=false;$('capacityFields').innerHTML=[1,2,3,4,5,6].map(n=>`<div><label for="cap${n}">Compartiment ${n} — actuellement ${countAt(n)} bouteille(s)</label><input id="cap${n}" type="number" min="${countAt(n)}" max="500" value="${state.capacities[n]||24}"></div>`).join('');render();window.scrollTo({top:0,behavior:'smooth'})};$('closeCapacity').onclick=()=>{state.view='home';render();window.scrollTo({top:0,behavior:'smooth'})};$('saveCapacities').onclick=()=>{for(let n=1;n<=6;n++){let v=Number($('cap'+n).value);if(!Number.isInteger(v)||v<countAt(n)||v>500){alert(`La capacité du compartiment ${n} doit être comprise entre ${countAt(n)} et 500.`);return}state.capacities[n]=v}save();render();alert('Capacités enregistrées.')};$('export').onclick=()=>{const blob=new Blob([JSON.stringify(state,null,2)],{type:'application/json'});const a=document.createElement('a');a.href=URL.createObjectURL(blob);a.download='ma-cave-a-vin-sauvegarde.json';a.click();setTimeout(()=>URL.revokeObjectURL(a.href),1000)};$('importFile').onchange=e=>{const f=e.target.files[0];if(!f)return;const r=new FileReader();r.onload=()=>{try{const s=JSON.parse(r.result);if(!Array.isArray(s.wines)||!s.capacities)throw Error();state={...defaultState,...s,capacities:{...defaultState.capacities,...s.capacities},wines:s.wines.map(w=>({...w,compartment:w.compartment===0||w.compartment==='waiting'?'waiting':Number(w.compartment||1),description:w.description||'',grapes:w.grapes||'',pairings:w.pairings||'',drinkFrom:w.drinkFrom||''}))};save();render();$('backupStatus').textContent='Sauvegarde restaurée.'}catch{$('backupStatus').textContent='Fichier de sauvegarde invalide.'}};r.readAsText(f);e.target.value=''};
+$('cancelEdit').onclick=()=>{resetForm();render()};$('waitingBtn').onclick=showWaiting;$('capacityBtn').onclick=()=>{state.view='capacity';state.formOpen=false;$('capacityFields').innerHTML=[1,2,3,4,5,6].map(n=>`<div><label for="cap${n}">Compartiment ${n} — actuellement ${countAt(n)} bouteille(s)</label><input id="cap${n}" type="number" min="${countAt(n)}" max="500" value="${state.capacities[n]||24}"></div>`).join('');render();window.scrollTo({top:0,behavior:'smooth'})};$('closeCapacity').onclick=()=>{state.view='home';render();window.scrollTo({top:0,behavior:'smooth'})};$('saveCapacities').onclick=()=>{for(let n=1;n<=6;n++){let v=Number($('cap'+n).value);if(!Number.isInteger(v)||v<countAt(n)||v>500){alert(`La capacité du compartiment ${n} doit être comprise entre ${countAt(n)} et 500.`);return}state.capacities[n]=v}save();render();alert('Capacités enregistrées.')};$('export').onclick=()=>{const blob=new Blob([JSON.stringify(state,null,2)],{type:'application/json'});const a=document.createElement('a');a.href=URL.createObjectURL(blob);a.download='ma-cave-a-vin-sauvegarde.json';a.click();setTimeout(()=>URL.revokeObjectURL(a.href),1000)};$('importFile').onchange=e=>{const f=e.target.files[0];if(!f)return;const r=new FileReader();r.onload=()=>{try{const s=JSON.parse(r.result);if(!Array.isArray(s.wines)||!s.capacities)throw Error();state={...defaultState,...s,capacities:{...defaultState.capacities,...s.capacities},wines:s.wines.map(w=>({...w,compartment:w.compartment===0||w.compartment==='waiting'?'waiting':Number(w.compartment||1),description:w.description||'',grapes:w.grapes||'',pairings:w.pairings||'',drinkFrom:w.drinkFrom||'',alcohol:w.alcohol??''}))};save();render();$('backupStatus').textContent='Sauvegarde restaurée.'}catch{$('backupStatus').textContent='Fichier de sauvegarde invalide.'}};r.readAsText(f);e.target.value=''};
 function openManualWineForm(){state.formOpen=true;$('wineForm').dataset.started='yes';$('addChoice').classList.add('hidden');$('wineForm').classList.remove('hidden');renderFormTitle();render();$('formPanel').scrollIntoView({behavior:'smooth',block:'start'});}
 $('addWineBtn').onclick=()=>{resetForm();state.formOpen=true;$('addChoice').classList.remove('hidden');$('wineForm').classList.add('hidden');render();$('formPanel').scrollIntoView({behavior:'smooth',block:'start'});};
 $('manualAddBtn').onclick=()=>openManualWineForm();

diff --git a/sw.js b/sw.js
@@ -1,1 +1,1 @@
-const CACHE='ma-cave-vin-v1.1.2';const ASSETS=['./','./index.html','./manifest.json','./icon.svg','./cave.jpg'];self.addEventListener('install',e=>e.waitUntil(caches.open(CACHE).then(c=>c.addAll(ASSETS))));self.addEventListener('activate',e=>e.waitUntil(caches.keys().then(keys=>Promise.all(keys.filter(k=>k!==CACHE).map(k=>caches.delete(k))))));self.addEventListener('fetch',e=>{if(e.request.method!=='GET')return;e.respondWith(caches.match(e.request).then(c=>c||fetch(e.request).then(r=>{const copy=r.clone();caches.open(CACHE).then(cache=>cache.put(e.request,copy));return r}).catch(()=>c)))})
+const CACHE='ma-cave-vin-v1.1.5';const ASSETS=['./','./index.html','./manifest.json','./icon.svg','./cave.jpg'];self.addEventListener('install',e=>e.waitUntil(caches.open(CACHE).then(c=>c.addAll(ASSETS))));self.addEventListener('activate',e=>e.waitUntil(caches.keys().then(keys=>Promise.all(keys.filter(k=>k!==CACHE).map(k=>caches.delete(k))))));self.addEventListener('fetch',e=>{if(e.request.method!=='GET')return;e.respondWith(caches.match(e.request).then(c=>c||fetch(e.request).then(r=>{const copy=r.clone();caches.open(CACHE).then(cache=>cache.put(e.request,copy));return r}).catch(()=>c)))})
